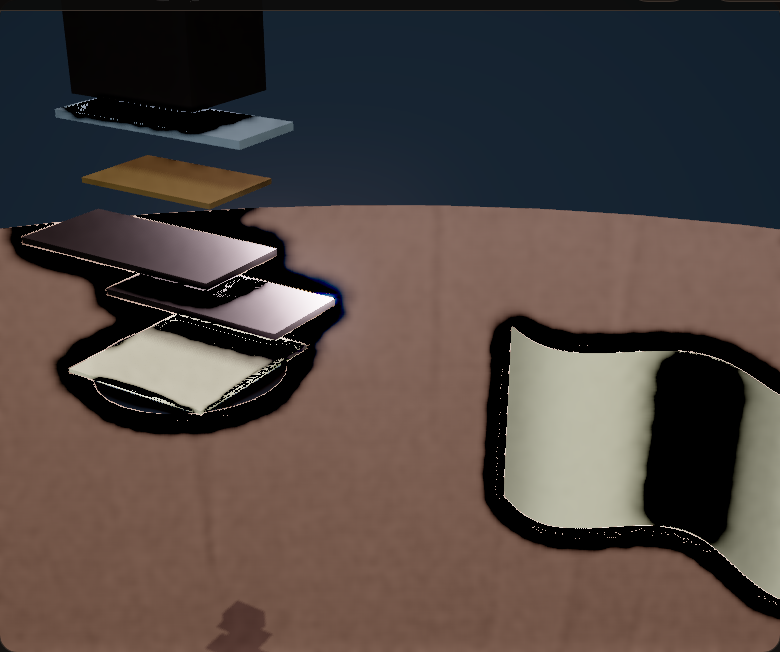
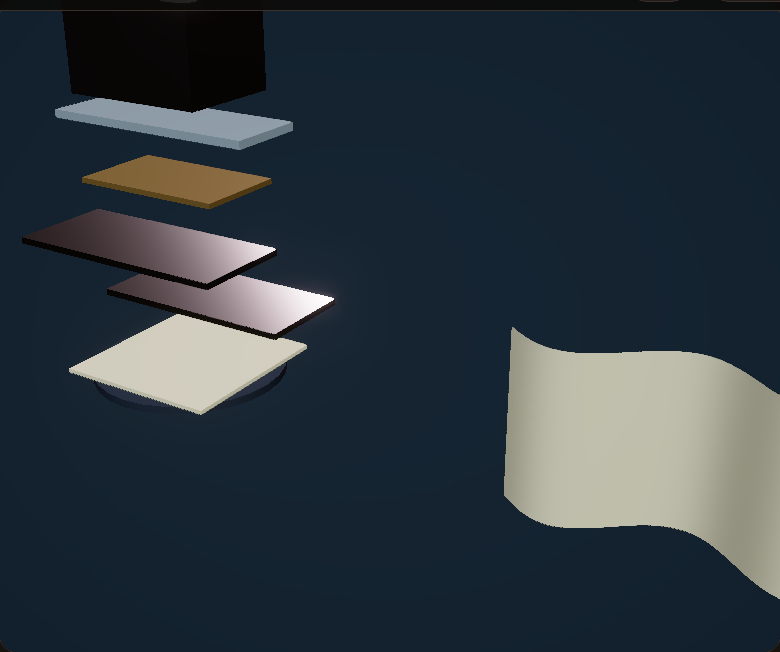
Stop the black edge halo and record the audit.
SAO and transparent dielectrics were drawing a black fringe on thin meshes. Both are gone, and bloom only starts near white so the metal rim stays a rim. Lithography and the transistor page are in the non-black canvas check. Issue 5 tracks the unpublished fin and BEOL thicknesses.

diff --git a/src/graphics/view.js b/src/graphics/view.js
@@ -4,7 +4,6 @@ import { RenderPass } from "three/addons/postprocessing/RenderPass.js";
 import { UnrealBloomPass } from "three/addons/postprocessing/UnrealBloomPass.js";
 import { ShaderPass } from "three/addons/postprocessing/ShaderPass.js";
 import { OutputPass } from "three/addons/postprocessing/OutputPass.js";
-import { SAOPass } from "three/addons/postprocessing/SAOPass.js";
 import { SMAAPass } from "three/addons/postprocessing/SMAAPass.js";
 import { agMaps, brushMaps } from "./pbr-maps.js";
 import {
@@ -67,8 +66,8 @@ export async function mountView(canvas, cap) {
   if (shadows) {
     key.shadow.mapSize.set(2048, 2048);
     key.shadow.radius = 2;
-    key.shadow.bias = -0.0004;
-    key.shadow.normalBias = 0.04;
+    key.shadow.bias = -0.002;
+    key.shadow.normalBias = 0.2;
     key.shadow.camera.near = 1;
     key.shadow.camera.far = 200;
     key.shadow.camera.left = -140;
@@ -97,6 +96,7 @@ export async function mountView(canvas, cap) {
     new THREE.CircleGeometry(280, 64),
     new THREE.MeshStandardMaterial({ color: 0x5a4638, roughness: 0.84, metalness: 0.08 }),
   );
+  floor.name = "stage-floor";
   floor.rotation.x = -Math.PI / 2;
   floor.position.y = -86;
   floor.receiveShadow = true;
@@ -284,6 +284,7 @@ function createRenderer(canvas, cap) {
     canvas,
     antialias: cap.tier === "low",
     alpha: false,
+    premultipliedAlpha: false,
     powerPreference: "high-performance",
     preserveDrawingBuffer: true,
   };
@@ -291,29 +292,15 @@ function createRenderer(canvas, cap) {
 }
 
 function makeComposer(renderer, scene, camera, cap) {
-  const samples = cap.tier === "ultra" ? 4 : cap.tier === "high" ? 4 : 2;
-  let target;
-  try {
-    target = new THREE.WebGLRenderTarget(2, 2, { type: THREE.HalfFloatType, samples });
-  } catch {
-    target = new THREE.WebGLRenderTarget(2, 2, { type: THREE.HalfFloatType, samples: 0 });
-  }
+  const target = new THREE.WebGLRenderTarget(2, 2, { type: THREE.HalfFloatType, samples: 0 });
   const composer = new EffectComposer(renderer, target);
   // The beauty pass has to land in the buffer before SSAO. SSAOPass only
   // multiplies its occlusion texture onto the read buffer (DST_COLOR, ZERO).
   // With an empty read buffer that product is black, which is what the live
   // page showed on every high tier.
   composer.addPass(new RenderPass(scene, camera));
-  if (cap.tier === "high" || cap.tier === "ultra") {
-    const sao = new SAOPass(scene, camera, new THREE.Vector2(512, 512));
-    sao.params.saoIntensity = 0.08;
-    sao.params.saoScale = 8;
-    sao.params.saoKernelRadius = 24;
-    sao.params.saoBias = 0.5;
-    sao.params.saoBlurRadius = 6;
-    composer.addPass(sao);
-  }
-  const bloom = new UnrealBloomPass(new THREE.Vector2(256, 256), 0.22, 0.42, 0.86);
+  // SAO multiplied a dark halo onto every thin silhouette. SMAA covers edges.
+  const bloom = new UnrealBloomPass(new THREE.Vector2(256, 256), 0.04, 0.15, 0.985);
   composer.addPass(bloom);
   composer.addPass(new SMAAPass());
   composer.addPass(new ShaderPass(GRADE));
@@ -467,9 +454,7 @@ export function makeMaterials(tier) {
     color: 0x6e8ea8,
     metalness: 0.02,
     roughness: 0.18,
-    clearcoat: rich ? 0.4 : 0,
-    transparent: true,
-    opacity: 0.72,
+    clearcoat: rich ? 0.35 : 0,
   });
   const hik = new THREE.MeshPhysicalMaterial({
     color: 0xd7e4c4,

diff --git a/src/labs/transistor.js b/src/labs/transistor.js
@@ -7,10 +7,11 @@ import { el, kv, note, panel } from "../dom.js";
 import { fmt } from "../format.js";
 import { provCited, provComputed } from "../provenance.js";
 import { mountSketch } from "../p5-loader.js";
+import { buildFinfet, makeMaterials, mountView } from "../graphics/view.js";
 
 const NIST = "https://physics.nist.gov/cuu/pdf/xray_2018.pdf";
 
-export async function mount(main) {
+export async function mount(main, ctx = {}) {
   const length = range("Well width nm", 1, 6, 0.1, 2);
   const points = range("Interior points", 24, 64, 4, 40);
   const barrier = range("Kronig–Penney P", 0, 6, 0.1, 2);
@@ -27,6 +28,7 @@ export async function mount(main) {
     el("p", { class: "lede" }, [
       "A finite-difference Schrödinger well, a Dirac-comb Kronig–Penney scan, and a double-gate scale length. TSMC N3P is FinFET. Fin height, fin count, and the high-k stack of this tapeout are UNKNOWN. The sliders are a model, not a TEM of the 9500.",
     ]),
+    panel("Drawing", [await transistorStage(ctx.cap)]),
     panel("1D infinite well", [length.node, points.node, wellHost]),
     panel("Kronig–Penney", [barrier.node, bandHost]),
     panel("FinFET electrostatics", [fin.node, eot.node, gate.node, finHost, plotHost]),
@@ -122,6 +124,21 @@ export async function mount(main) {
   }
   recompute();
   return { dispose: () => sketch.dispose() };
+}
+
+async function transistorStage(cap) {
+  const stage = el("div", { class: "stage" });
+  const canvas = el("canvas", { "aria-label": "FinFET drawing with source, drain, high-k wrap, and gate" });
+  stage.append(canvas);
+  try {
+    const view = await mountView(canvas, cap || { tier: "medium", pixelRatio: 1 });
+    const mesh = buildFinfet(makeMaterials(cap?.tier || "medium"));
+    view.root.add(mesh);
+    view.frame(mesh, 0.8);
+  } catch (error) {
+    stage.append(note(error.message));
+  }
+  return stage;
 }
 
 function range(label, min, max, step, value) {

diff --git a/tests/e2e/smoke.spec.js b/tests/e2e/smoke.spec.js
@@ -61,14 +61,9 @@ test("every route at a phone viewport", async ({ page }) => {
   expect(errors).toEqual([]);
 });
 
-test("high tier hero is not a black canvas", async ({ page }) => {
-  const errors = [];
-  page.on("pageerror", (error) => errors.push(error.message));
-  await page.goto("/?tier=high#/");
-  await expect(page.locator("#main[data-ready='true'] canvas")).toBeVisible();
-  await page.waitForTimeout(800);
-  const brightest = await page.evaluate(() => {
-    const canvas = document.querySelector("canvas");
+async function brightestCanvas(page) {
+  return page.evaluate(() => {
+    const canvas = document.querySelector("#main canvas");
     const probe = document.createElement("canvas");
     probe.width = 48;
     probe.height = 48;
@@ -79,7 +74,27 @@ test("high tier hero is not a black canvas", async ({ page }) => {
     for (let i = 0; i < data.length; i += 4) max = Math.max(max, data[i], data[i + 1], data[i + 2]);
     return max;
   });
-  expect(brightest).toBeGreaterThan(12);
+}
+
+test("high tier hero is not a black canvas", async ({ page }) => {
+  const errors = [];
+  page.on("pageerror", (error) => errors.push(error.message));
+  await page.goto("/?tier=high#/");
+  await expect(page.locator("#main[data-ready='true'] canvas")).toBeVisible();
+  await page.waitForTimeout(800);
+  expect(await brightestCanvas(page)).toBeGreaterThan(12);
+  expect(errors).toEqual([]);
+});
+
+test("lithography and transistor views are not black canvases", async ({ page }) => {
+  const errors = [];
+  page.on("pageerror", (error) => errors.push(error.message));
+  for (const hash of ["#/litho", "#/transistor"]) {
+    await page.goto(`/?tier=high${hash}`);
+    await expect(page.locator("#main[data-ready='true'] canvas").first()).toBeVisible();
+    await page.waitForTimeout(800);
+    expect(await brightestCanvas(page)).toBeGreaterThan(12);
+  }
   expect(errors).toEqual([]);
 });
 

diff --git a/src/graphics/subjects.js b/src/graphics/subjects.js
@@ -39,25 +39,22 @@ function frameBand(w, h, depth, radius, lip, material) {
   geo.translate(0, 0, -depth / 2);
   geo.computeVertexNormals();
   const mesh = new THREE.Mesh(geo, material);
-  mesh.castShadow = true;
-  mesh.receiveShadow = true;
+  mesh.castShadow = false;
+  mesh.receiveShadow = false;
   return mesh;
 }
 
 function slab(w, h, depth, radius, material) {
   const geo = new THREE.ExtrudeGeometry(roundedRect(w, h, radius), {
     depth,
-    bevelEnabled: true,
-    bevelThickness: Math.min(0.28, depth * 0.12),
-    bevelSize: Math.min(0.35, depth * 0.12),
-    bevelSegments: 3,
-    curveSegments: 20,
+    bevelEnabled: false,
+    curveSegments: 24,
   });
   geo.translate(0, 0, -depth / 2);
   geo.computeVertexNormals();
   const mesh = new THREE.Mesh(geo, material);
-  mesh.castShadow = true;
-  mesh.receiveShadow = true;
+  mesh.castShadow = false;
+  mesh.receiveShadow = false;
   return mesh;
 }
 
@@ -67,7 +64,10 @@ function put(mesh, x, y, z) {
 }
 
 function box(w, h, d, material, x, y, z) {
-  return put(new THREE.Mesh(new THREE.BoxGeometry(w, h, d), material), x, y, z);
+  const mesh = put(new THREE.Mesh(new THREE.BoxGeometry(w, h, d), material), x, y, z);
+  mesh.castShadow = false;
+  mesh.receiveShadow = false;
+  return mesh;
 }
 
 function oledTexture() {

diff --git a/src/labs/litho.js b/src/labs/litho.js
@@ -26,7 +26,7 @@ export async function mount(main, ctx = {}) {
   main.replaceChildren(
     el("h1", {}, ["Lithography, computed"]),
     el("p", { class: "lede" }, [
-      "Rayleigh’s criterion and a 1D Abbe aerial image, evaluated in the page. EUV is 13.5 nm. High-NA 0.55 is not a claim about the Dimensity 9500 mask set. N3P pitches are UNKNOWN, so this is not a TSMC ground rule.",
+      "Rayleigh’s criterion and a 1D Abbe aerial image, evaluated in the page. EUV is 13.5 nm. High-NA 0.55 is not a claim about the Dimensity 9500 mask set. Gate pitch and minimum metal pitch are the cited N3E rules. The full N3P metal deck is not published.",
     ]),
     panel("Scanner", [
       na,
@@ -103,6 +103,8 @@ async function scannerStage(cap) {
     view.root.add(built.group);
     view.scene.background = new view.THREE.Color(0x1a2430);
     view.scene.fog = null;
+    const floor = view.scene.getObjectByName("stage-floor");
+    if (floor) floor.visible = false;
     built.group.scale.setScalar(2.2);
     view.release();
     view.orbit.set(34, new view.THREE.Vector3(1, 1.6, 0));

diff --git a/src/graphics/pu-scenes.js b/src/graphics/pu-scenes.js
@@ -8,8 +8,8 @@ import { floorplan, getSpecs, npuCounts, parseDieMm, parsePackageMm } from "../s
 const box = (w, h, d, material, x, y, z) => {
   const mesh = new THREE.Mesh(new THREE.BoxGeometry(w, h, d), material);
   mesh.position.set(x, y, z);
-  mesh.castShadow = true;
-  mesh.receiveShadow = true;
+  mesh.castShadow = false;
+  mesh.receiveShadow = false;
   return mesh;
 };
 
@@ -436,6 +436,10 @@ function resistSurface(materials, intensity) {
   }
   geo.computeVertexNormals();
   const mesh = new THREE.Mesh(geo, materials.hik);
+  mesh.castShadow = false;
+  mesh.receiveShadow = false;
+  mesh.material = materials.hik.clone();
+  mesh.material.side = THREE.DoubleSide;
   mesh.position.set(5.5, 0.2, 0);
   return mesh;
 }

diff --git a/src/sim/cache-curve.js b/src/sim/cache-curve.js
@@ -2,7 +2,7 @@
  * Read a measured pointer-chase curve.
  * A jump is a rise in ns/load. Cited cache sizes may be drawn on the same
  * chart as reference marks. The curve does not, by itself, name a level L1
- * or prove a 9500 cache geometry. L1 size in specs.json is UNKNOWN.
+ * or prove a 9500 cache geometry. L1 sizes in specs.json come from the Arm manuals.
  */
 
 export function chaseJumps(points, ratio = 1.35) {

diff --git a/CHANGELOG.md b/CHANGELOG.md
@@ -6,6 +6,7 @@ All notable changes to this project are documented here. The format is based on 
 
 ### Changed
 
+- Audit pass: black silhouettes on thin meshes came from the SAO multiply and from transparent dielectrics. SAO is off. Bloom strength is 0.04 and the threshold is 0.985, so the metal rim no longer blooms into a white halo. Lithography and transistor routes are in the non-black canvas check. The lithography lede no longer calls the cited gate and metal pitches unknown. Unpublished fin height, high-k thickness, and the N3P metal deck above 23 nm are recorded as [issue #5](https://github.com/0thernes/xiaomi-17t-pro-lab/issues/5).
 - Frame and camera rings use a procedural brushed-metal normal and roughness. The back uses an AG-glass microfacet map. Launch colors Black, Deep Violet, and Deep Blue switch that glass; the RGB values are reconstructions of the names in specs.json. Zoom now descends die, block, cell, transistor, and lattice. The transistor shows source, drain, a high-k wrap, and a gate. BEOL is M0 at the cited 23 nm pitch plus wider reconstructed layers and vias. The lithography page adds an EUV scanner cutaway and a 3D resist surface from the live Abbe image.
 - The WebGL2 path is the look: AgX, a studio PMREM, bloom, SMAA, and a gentle SAO pass that multiplies onto the beauty pass only after it has been drawn. The phone frame is a bevel-free rounded band with a Deep Violet back and readable LEICA and XIAOMI marks. CPU, GPU, and NPU cameras sit inside the block: fins and the metal stack at eye level, tile bins as a wall, MAC columns as towers, with fog and emissive packet streaks.
 - three.js r187 is vendored. p5.js is 2.4 and sketches use a high-DPI pixel density up to 2.
